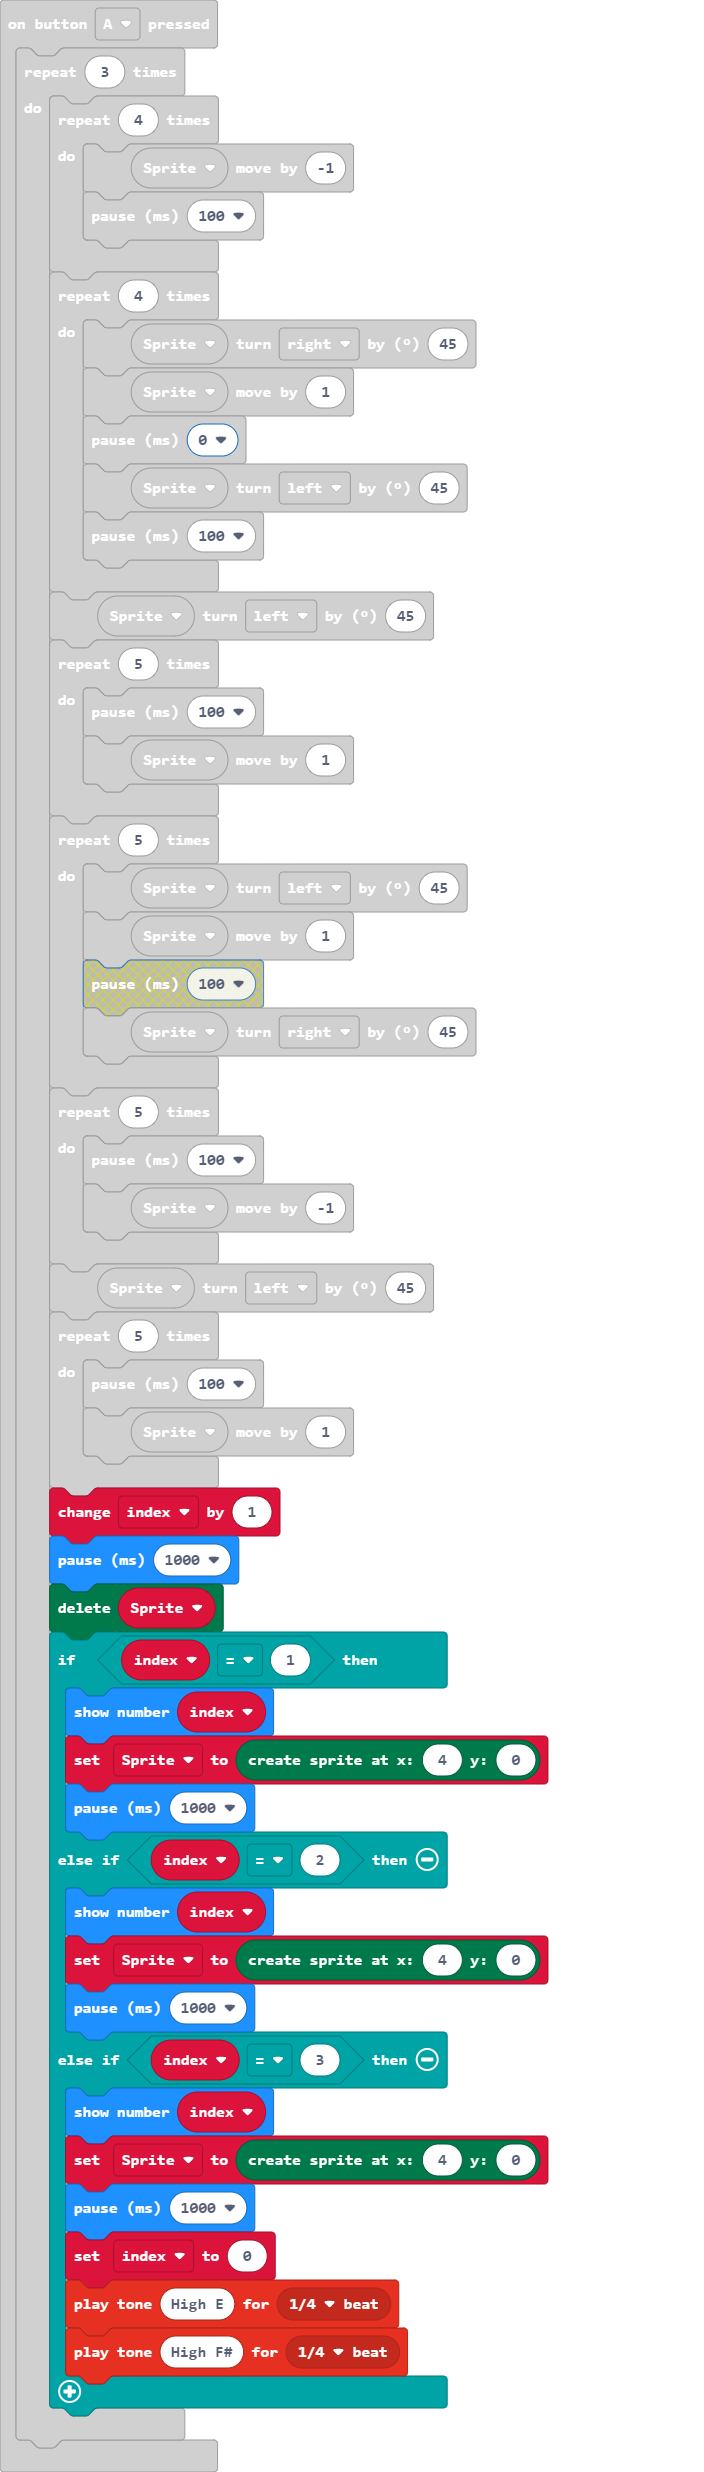
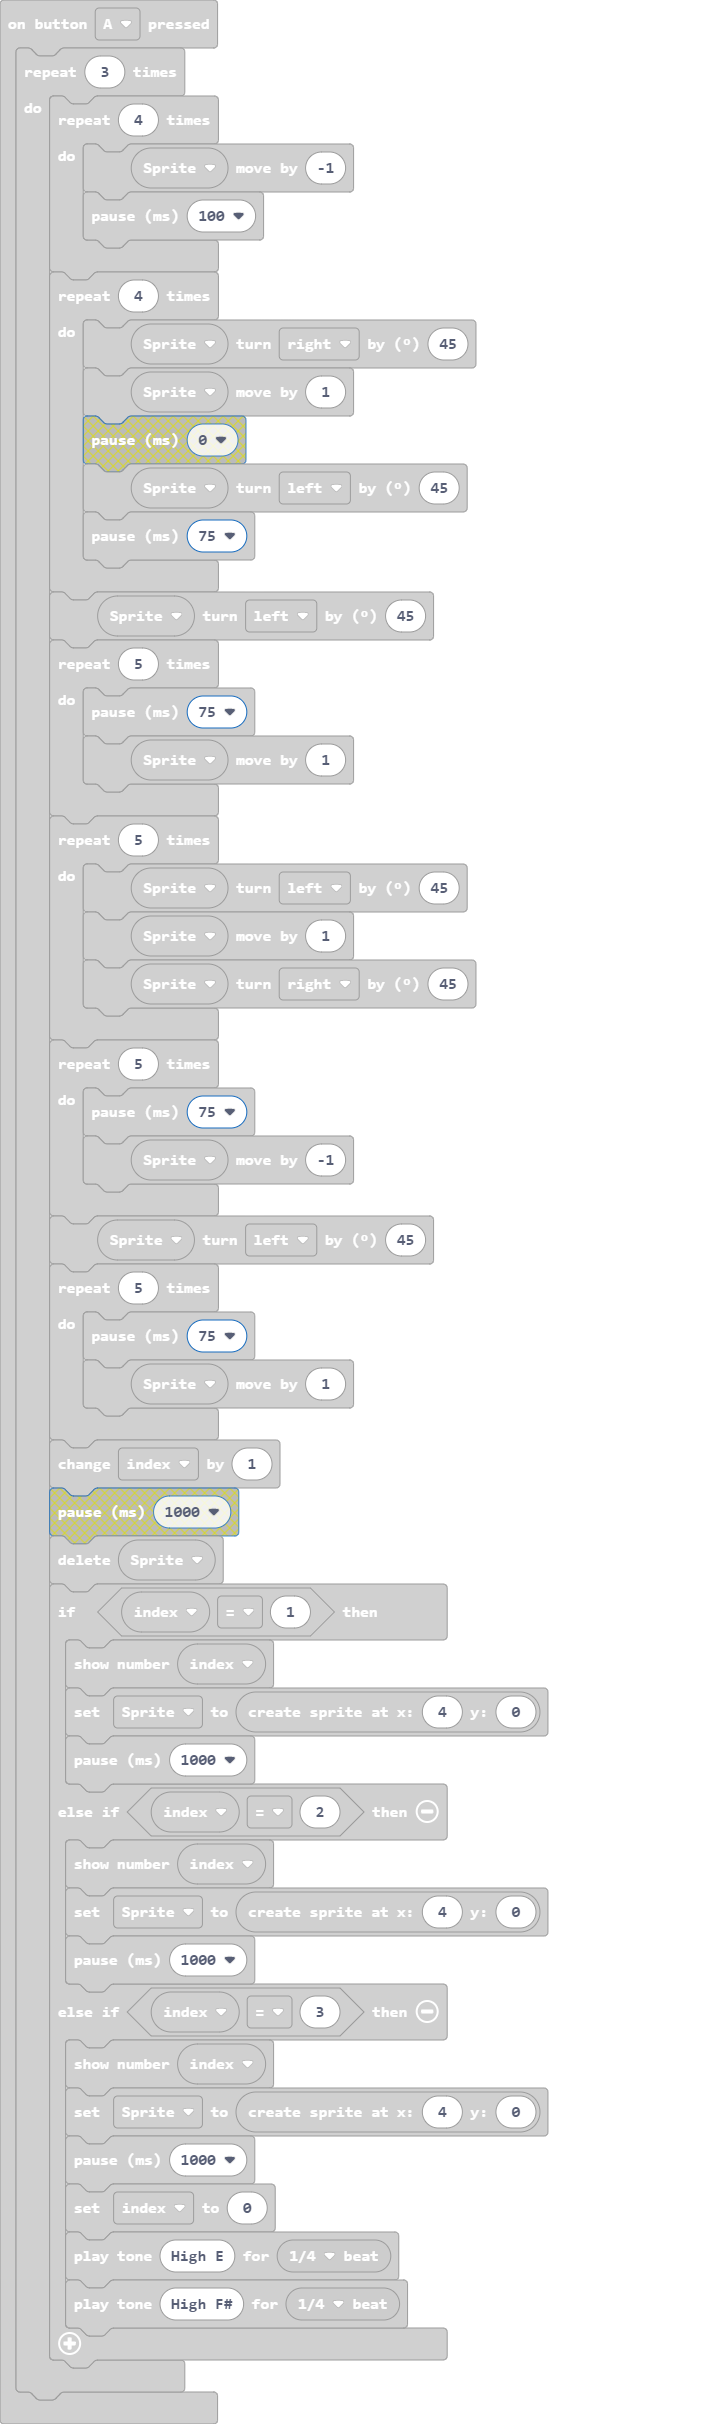
Update main.blocks, main.ts

Changed region(s): [[0.0625, 0.0309, 0.7812, 0.9901], [0.4062, 0.0619, 0.5, 0.0928]]

diff --git a/main.ts b/main.ts
@@ -7,13 +7,12 @@ input.onButtonPressed(Button.A, function () {
         for (let index2 = 0; index2 < 4; index2++) {
             Sprite.turn(Direction.Right, 45)
             Sprite.move(1)
-            basic.pause(0)
             Sprite.turn(Direction.Left, 45)
-            basic.pause(100)
+            basic.pause(75)
         }
         Sprite.turn(Direction.Left, 45)
         for (let index2 = 0; index2 < 5; index2++) {
-            basic.pause(100)
+            basic.pause(75)
             Sprite.move(1)
         }
         for (let index2 = 0; index2 < 5; index2++) {
@@ -22,16 +21,15 @@ input.onButtonPressed(Button.A, function () {
             Sprite.turn(Direction.Right, 45)
         }
         for (let index2 = 0; index2 < 5; index2++) {
-            basic.pause(100)
+            basic.pause(75)
             Sprite.move(-1)
         }
         Sprite.turn(Direction.Left, 45)
         for (let index2 = 0; index2 < 5; index2++) {
-            basic.pause(100)
+            basic.pause(75)
             Sprite.move(1)
         }
         index += 1
-        basic.pause(1000)
         Sprite.delete()
         if (index == 1) {
             basic.showNumber(index)
